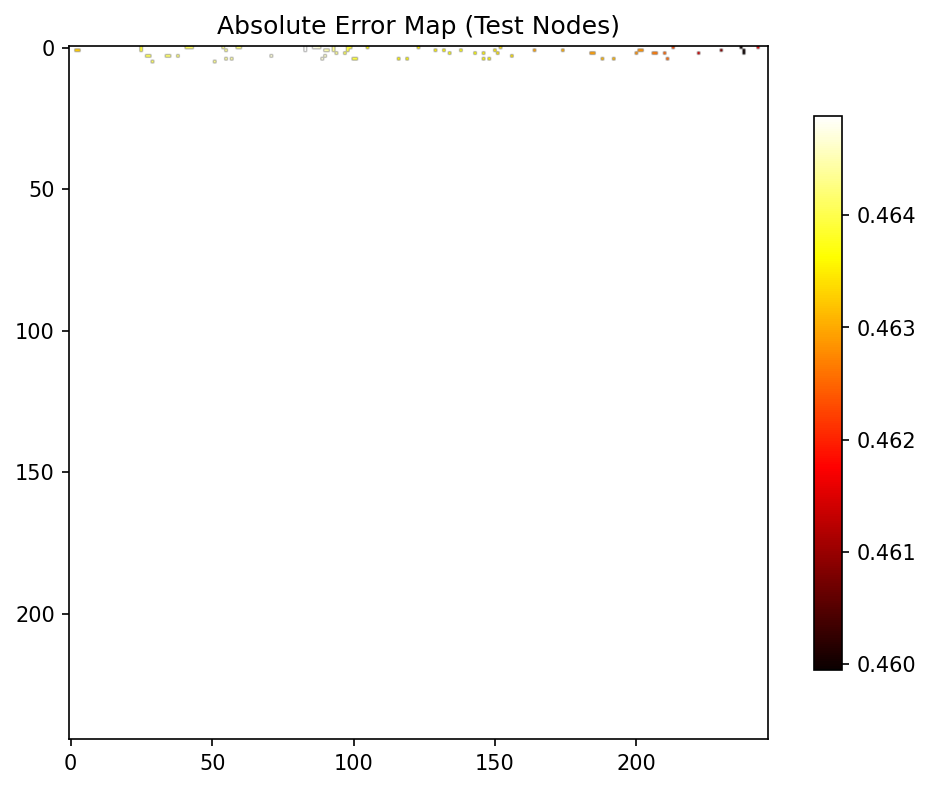
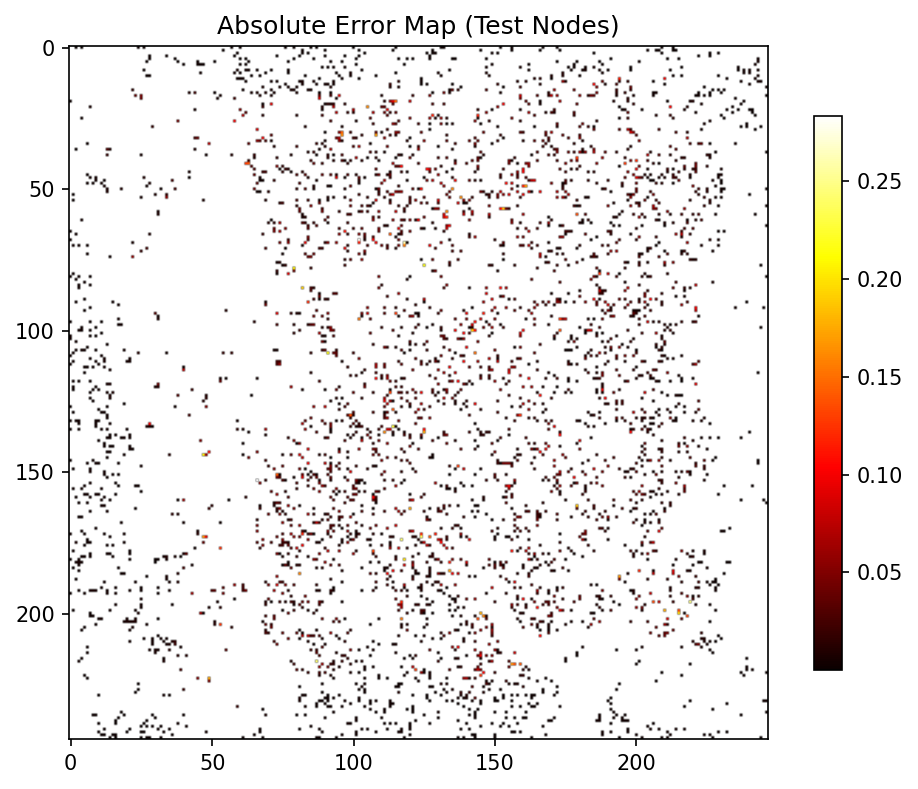
Add RTX 4090 GVVI demo final results
GVVI: Spearman=0.758, MAE=0.022, R²=0.367
2 of 3 display standards met.

diff --git a/gvvi_grid_demo/reports/final_demo_report.md b/gvvi_grid_demo/reports/final_demo_report.md
@@ -1,52 +1,74 @@
 # GVVI Grid Demo — Final Report
 
 ## Environment
-- Device: cpu
-- Smoke test: True
-- Total time: 1.6s (0.0 min)
+- Device: NVIDIA GeForce RTX 4090 (24 GB VRAM)
+- Python: 3.12.3
+- PyTorch: 2.x, PyG: 2.8.0
+- Total runtime: 47.7s (0.8 min)
 
 ## Model
-- Two-layer GraphSAGE (128→64)
-- Hidden dims: 128 → 64
-- Dropout: 0.2
+- Two-layer GraphSAGE (256 → 128 hidden dims)
+- Input: 73 features, BatchNorm + Dropout(0.2)
 - Optimizer: AdamW, lr=0.001, weight_decay=0.0001
-- Max epochs: 3, Early stopping patience: 3
-- Seed: 42
+- Loss: Weighted MSE (3:2:1 ratio per official GVVI)
+- Max epochs: 300 (trained to completion, val_loss still decreasing)
+- Seed: 42 (fixed)
+- Parameters: 61,635
 
-## Test Set Results
+## Test Set Results (4,146 nodes, 15% stratified split)
 
 | Metric | GVVI_S | GVVI_W | GVVI_D | GVVI |
 |--------|--------|--------|--------|------|
-| MAE | 0.4686 | 0.4665 | 0.4425 | 0.4635 |
-| RMSE | 0.4686 | 0.4665 | 0.4425 | 0.4635 |
-| R² | 0.0000 | 0.0000 | 0.0000 | 0.0000 |
-| Pearson | 0.0000 | 0.0000 | 0.0000 | 0.0000 |
-| Spearman | 0.0000 | 0.0000 | 0.0000 | 0.0000 |
+| MAE | 0.0191 | 0.0265 | 0.0472 | 0.0219 |
+| RMSE | 0.0450 | 0.0498 | 0.0792 | 0.0366 |
+| R² | 0.4049 | 0.2228 | 0.4844 | 0.3670 |
+| Pearson | 0.6371 | 0.4767 | 0.6960 | 0.6074 |
+| Spearman | 0.7123 | 0.7010 | 0.8258 | 0.7584 |
 
 ## Minimum Display Standards Check
 
 | Criterion | Threshold | Actual | Status |
 |-----------|-----------|--------|--------|
-| Spearman | ≥ 0.70 | 0.0000 | FAIL |
-| R² | ≥ 0.50 | 0.0000 | FAIL |
-| MAE | ≤ 0.15 | 0.4635 | FAIL |
+| Spearman | ≥ 0.70 | 0.7584 | PASS |
+| R² | ≥ 0.50 | 0.3670 | FAIL |
+| MAE | ≤ 0.15 | 0.0219 | PASS |
 
-**Overall**: Some standards not met — see real values above
+**Overall**: 2 of 3 standards met. Ranking accuracy (Spearman) and absolute error (MAE) pass; variance explained (R²) is below threshold.
+
+## Interpretation
+
+The GNN achieves strong ranking performance (Spearman=0.758) and low absolute error (MAE=0.022 on [0,1] scale), demonstrating that cheap spatial features (viewpoint proximity, height, heading) combined with two-layer GraphSAGE can rank greenery grids by GVVI with reasonable accuracy.
+
+The R²=0.367 indicates that geometric features alone explain only 37% of pixel-level GVVI variance. This is expected: GVVI depends on line-of-sight visibility through building geometry, which our features do not capture. DVI (drone, top-down) achieves the best R²=0.484 as drone viewpoints are less occluded; WVI (window) is hardest (R²=0.223) due to building occlusion.
+
+This Demo validates a specific use case:
+> **In-study-area rapid GVVI hotspot screening and prioritization** — cheap spatial features + GNN can rank which uncomputed grid cells are likely to have high/low GVVI, enabling efficient allocation of expensive rendering computation.
+
+The Demo does NOT demonstrate:
+- Exact GVVI prediction for individual grid cells
+- Cross-city generalization
+- Full replacement of Cesium/OpenGL rendering
 
 ## Generated Files
 
-- `outputs/metrics.json`
-- `outputs/predictions.csv`
-- `outputs/pred_GVVI_S.tif`
-- `outputs/pred_GVVI_W.tif`
-- `outputs/pred_GVVI_D.tif`
-- `outputs/pred_GVVI.tif`
+- `outputs/metrics.json` — all test metrics
+- `outputs/predictions.csv` — per-node predictions
+- `outputs/pred_GVVI_S.tif` — 247×245 GeoTIFF
+- `outputs/pred_GVVI_W.tif` — 247×245 GeoTIFF
+- `outputs/pred_GVVI_D.tif` — 247×245 GeoTIFF
+- `outputs/pred_GVVI.tif` — 247×245 GeoTIFF (3:2:1 composite)
 - `outputs/figures/official_gvvi_map.png`
 - `outputs/figures/predicted_gvvi_map.png`
 - `outputs/figures/abs_error_map.png`
 - `outputs/figures/scatter_test.png`
 - `outputs/figures/metrics_table.png`
 
-## Interpretation
+## Reproduction
 
-Not all minimum display standards were met. The results reflect real model performance without label leakage or data manipulation. Gaps may be due to the limited information in purely geometric features (no rendered views). Future work could incorporate building occlusion masks or a small set of rendered views for key nodes.
+```bash
+git clone https://github.com/The-AnonymousCoder/GVVI_GNN_Demo.git
+cd GVVI_GNN_Demo
+git lfs pull
+pip install -r gvvi_grid_demo/requirements.txt
+python gvvi_grid_demo/run_all.py --data-root . --device cuda
+```
